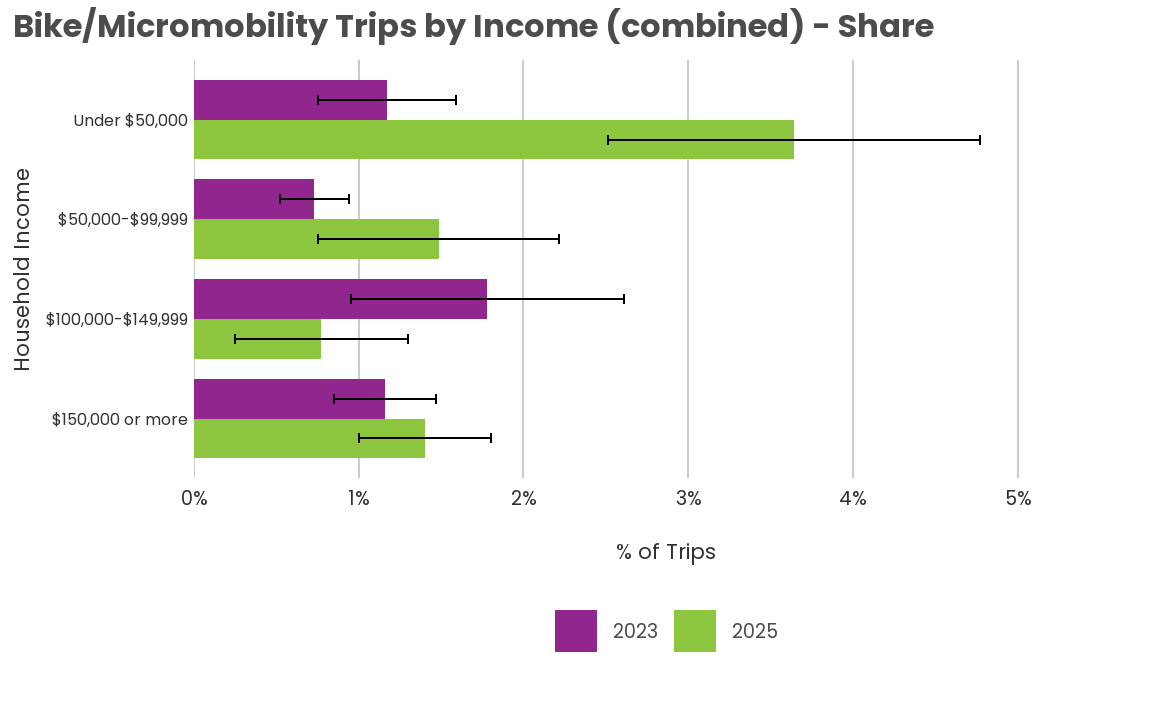
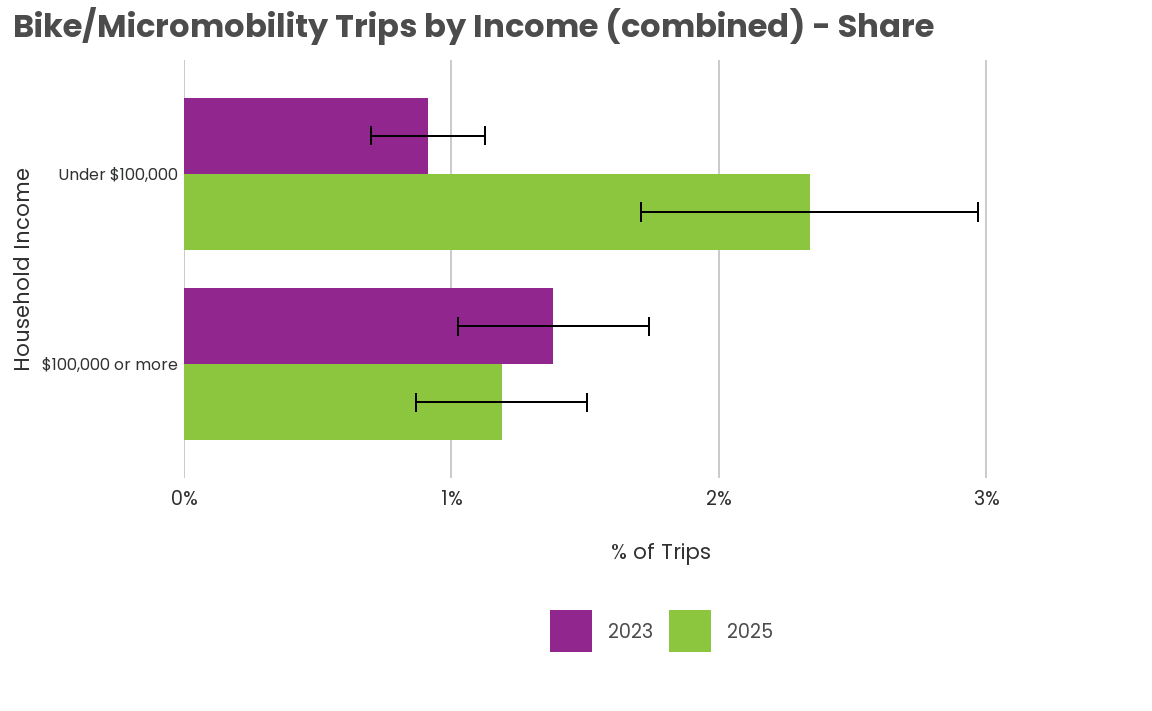
update to walk-bike analysis

diff --git a/2025/hts_summary/Analysis/walk-bike/walk_bike_summary.html b/2025/hts_summary/Analysis/walk-bike/walk_bike_summary.html
@@ -6,7 +6,7 @@
 
 <meta name="viewport" content="width=device-width, initial-scale=1.0, user-scalable=yes">
 
-<meta name="dcterms.date" content="2026-05-12">
+<meta name="dcterms.date" content="2026-05-29">
 
 <title>Walk &amp; Bike/Micromobility Summary</title>
 <style>
@@ -76,7 +76,7 @@ ul.task-list li input[type="checkbox"] {
     <div>
     <div class="quarto-title-meta-heading">Published</div>
     <div class="quarto-title-meta-contents">
-      <p class="date">May 12, 2026</p>
+      <p class="date">May 29, 2026</p>
     </div>
   </div>
   
@@ -119,6 +119,15 @@ ul.task-list li input[type="checkbox"] {
 </figure>
 </div>
 </div>
+<div class="cell-output cell-output-stdout">
+<pre><code>   survey_year mode_class_5 count       prop    prop_moe     est   est_moe
+        &lt;char&gt;        &lt;ord&gt; &lt;int&gt;      &lt;num&gt;       &lt;num&gt;   &lt;num&gt;     &lt;num&gt;
+1:        2017         Walk  6750 0.10451918 0.008596931 1712548 144688.50
+2:        2019         Walk  9736 0.10648792 0.007605951 1781424 130463.48
+3:        2021         Walk  1816 0.15743899 0.008302067 2020069 106976.73
+4:        2023         Walk  6918 0.10977709 0.007116078 1770246 119237.76
+5:        2025         Walk  3513 0.09671155 0.005748808 1653806  98966.81</code></pre>
+</div>
 </div>
 <div class="cell">
 <div class="cell-output-display">
@@ -127,6 +136,22 @@ ul.task-list li input[type="checkbox"] {
 <p><img src="walk_bike_summary_files/figure-html/bike_estimate-1.png" class="img-fluid figure-img" width="576"></p>
 </figure>
 </div>
+</div>
+<div class="cell-output cell-output-stdout">
+<pre><code>   survey_year       mode_class_5 count        prop    prop_moe      est
+        &lt;char&gt;              &lt;ord&gt; &lt;int&gt;       &lt;num&gt;       &lt;num&gt;    &lt;num&gt;
+1:        2017 Bike/Micromobility   820 0.007510197 0.002308935 123054.7
+2:        2019 Bike/Micromobility  1160 0.010972633 0.002753399 183559.9
+3:        2021 Bike/Micromobility   137 0.009726335 0.002074103 124796.7
+4:        2023 Bike/Micromobility   874 0.011302693 0.001981822 182265.2
+5:        2025 Bike/Micromobility   473 0.015051963 0.002801254 257394.5
+    est_moe
+      &lt;num&gt;
+1: 37885.81
+2: 46186.38
+3: 26594.24
+4: 31983.75
+5: 48171.14</code></pre>
 </div>
 </div>
 <div class="cell">
@@ -137,6 +162,15 @@ ul.task-list li input[type="checkbox"] {
 </figure>
 </div>
 </div>
+<div class="cell-output cell-output-stdout">
+<pre><code>   survey_year mode_class_5 count       prop    prop_moe     est   est_moe
+        &lt;char&gt;        &lt;ord&gt; &lt;int&gt;      &lt;num&gt;       &lt;num&gt;   &lt;num&gt;     &lt;num&gt;
+1:        2017         Walk  6750 0.10451918 0.008596931 1712548 144688.50
+2:        2019         Walk  9736 0.10648792 0.007605951 1781424 130463.48
+3:        2021         Walk  1816 0.15743899 0.008302067 2020069 106976.73
+4:        2023         Walk  6918 0.10977709 0.007116078 1770246 119237.76
+5:        2025         Walk  3513 0.09671155 0.005748808 1653806  98966.81</code></pre>
+</div>
 </div>
 <div class="cell">
 <div class="cell-output-display">
@@ -146,6 +180,22 @@ ul.task-list li input[type="checkbox"] {
 </figure>
 </div>
 </div>
+<div class="cell-output cell-output-stdout">
+<pre><code>   survey_year       mode_class_5 count        prop    prop_moe      est
+        &lt;char&gt;              &lt;ord&gt; &lt;int&gt;       &lt;num&gt;       &lt;num&gt;    &lt;num&gt;
+1:        2017 Bike/Micromobility   820 0.007510197 0.002308935 123054.7
+2:        2019 Bike/Micromobility  1160 0.010972633 0.002753399 183559.9
+3:        2021 Bike/Micromobility   137 0.009726335 0.002074103 124796.7
+4:        2023 Bike/Micromobility   874 0.011302693 0.001981822 182265.2
+5:        2025 Bike/Micromobility   473 0.015051963 0.002801254 257394.5
+    est_moe
+      &lt;num&gt;
+1: 37885.81
+2: 46186.38
+3: 26594.24
+4: 31983.75
+5: 48171.14</code></pre>
+</div>
 </div>
 <section id="trips-by-household-income" class="level3">
 <h3 class="anchored" data-anchor-id="trips-by-household-income">Trips by Household Income</h3>
@@ -153,18 +203,31 @@ ul.task-list li input[type="checkbox"] {
 <div class="cell-output-display">
 <div>
 <figure class="figure">
-<p><img src="walk_bike_summary_files/figure-html/walk_income_detail-1.png" class="img-fluid figure-img" width="576"></p>
-</figure>
-</div>
-</div>
-</div>
-<div class="cell">
-<div class="cell-output-display">
-<div>
-<figure class="figure">
 <p><img src="walk_bike_summary_files/figure-html/walk_income_combined-1.png" class="img-fluid figure-img" width="576"></p>
 </figure>
 </div>
+</div>
+<div class="cell-output cell-output-stdout">
+<pre><code>   survey_year hhincome_detailed_combined mode_class_5 count       prop
+        &lt;char&gt;                     &lt;fctr&gt;        &lt;ord&gt; &lt;int&gt;      &lt;num&gt;
+1:        2023              Under $50,000         Walk  1596 0.15909471
+2:        2023            $50,000-$99,999         Walk  1628 0.09465707
+3:        2023          $100,000-$149,999         Walk  1084 0.08210819
+4:        2023           $150,000 or more         Walk  1951 0.10382684
+5:        2025              Under $50,000         Walk   540 0.12850975
+6:        2025            $50,000-$99,999         Walk   764 0.07170949
+7:        2025          $100,000-$149,999         Walk   574 0.05779451
+8:        2025           $150,000 or more         Walk  1419 0.13512082
+      prop_moe      est  est_moe
+         &lt;num&gt;    &lt;num&gt;    &lt;num&gt;
+1: 0.027616030 432013.5 83381.93
+2: 0.012249557 364815.2 48126.32
+3: 0.013531686 234011.3 39387.59
+4: 0.010256278 533616.3 53178.23
+5: 0.018041877 308265.1 45598.39
+6: 0.009045799 262212.2 32573.45
+7: 0.008489008 171877.6 24832.88
+8: 0.011977687 784634.4 72873.19</code></pre>
 </div>
 </div>
 <div class="cell">
@@ -174,6 +237,20 @@ ul.task-list li input[type="checkbox"] {
 <p><img src="walk_bike_summary_files/figure-html/bike_income_combined-1.png" class="img-fluid figure-img" width="576"></p>
 </figure>
 </div>
+</div>
+<div class="cell-output cell-output-stdout">
+<pre><code>   survey_year    hhincome_bike       mode_class_5 count        prop
+        &lt;char&gt;           &lt;fctr&gt;              &lt;ord&gt; &lt;int&gt;       &lt;num&gt;
+1:        2023   Under $100,000 Bike/Micromobility   329 0.009138179
+2:        2023 $100,000 or more Bike/Micromobility   484 0.013822360
+3:        2025   Under $100,000 Bike/Micromobility   166 0.023398848
+4:        2025 $100,000 or more Bike/Micromobility   288 0.011891333
+      prop_moe       est  est_moe
+         &lt;num&gt;     &lt;num&gt;    &lt;num&gt;
+1: 0.002118862  60033.46 13825.22
+2: 0.003567373 110434.01 28628.46
+3: 0.006292435 141688.40 38583.01
+4: 0.003189440 104416.06 28126.61</code></pre>
 </div>
 </div>
 </section>
@@ -187,6 +264,20 @@ ul.task-list li input[type="checkbox"] {
 </figure>
 </div>
 </div>
+<div class="cell-output cell-output-stdout">
+<pre><code>   survey_year     race_binary mode_class_5 count       prop    prop_moe
+        &lt;char&gt;          &lt;char&gt;        &lt;ord&gt; &lt;int&gt;      &lt;num&gt;       &lt;num&gt;
+1:        2023 People of Color         Walk  1930 0.12060000 0.012315273
+2:        2023           White         Walk  4207 0.11995445 0.011759807
+3:        2025 People of Color         Walk   964 0.09820274 0.010989190
+4:        2025           White         Walk  2100 0.09898436 0.007615453
+        est  est_moe
+      &lt;num&gt;    &lt;num&gt;
+1: 568912.4 58406.23
+2: 933581.3 97876.70
+3: 525877.2 59747.40
+4: 742814.0 57528.59</code></pre>
+</div>
 </div>
 <div class="cell">
 <div class="cell-output-display">
@@ -195,6 +286,20 @@ ul.task-list li input[type="checkbox"] {
 <p><img src="walk_bike_summary_files/figure-html/bike_race-1.png" class="img-fluid figure-img" width="576"></p>
 </figure>
 </div>
+</div>
+<div class="cell-output cell-output-stdout">
+<pre><code>   survey_year     race_binary       mode_class_5 count        prop    prop_moe
+        &lt;char&gt;          &lt;char&gt;              &lt;ord&gt; &lt;int&gt;       &lt;num&gt;       &lt;num&gt;
+1:        2023 People of Color Bike/Micromobility   196 0.006163151 0.001536736
+2:        2023           White Bike/Micromobility   575 0.014946559 0.003481921
+3:        2025 People of Color Bike/Micromobility   131 0.015389344 0.005276491
+4:        2025           White Bike/Micromobility   277 0.015318572 0.003640859
+         est   est_moe
+       &lt;num&gt;     &lt;num&gt;
+1:  29073.74  7153.238
+2: 116326.06 27204.677
+3:  82410.18 28435.645
+4: 114956.03 27470.645</code></pre>
 </div>
 </div>
 </section>